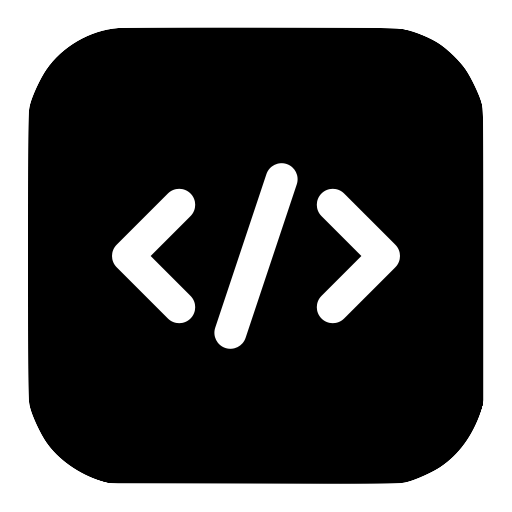
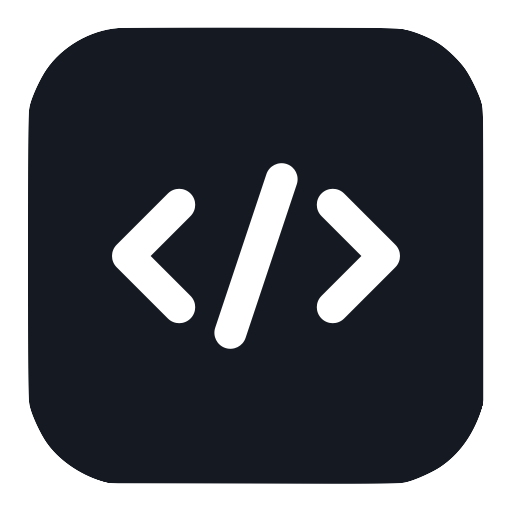
circular links

diff --git a/dist/assets/index-4edf9eb6.css b/dist/assets/index-4edf9eb6.css
@@ -1,0 +1,1 @@
+:root{--primary: #002F6C;--secondary: #006789;--tertiary: #A7C6ED;--bg: #F8F9F6;--text: #1f2937;--card-bg: #f9fafb}body{display:flex;flex-direction:column;align-items:center;justify-content:center;text-align:center;font-family:Inter,sans-serif;color:var(--text);line-height:1.6;margin:0}.site-header{width:100%;display:flex;flex-direction:column;background-color:var(--primary);color:var(--bg);position:relative;box-sizing:border-box;padding-top:1rem}.title,.subtitle{line-height:1}.nav-bar{max-width:1200px;display:flex;padding-bottom:.5rem;padding-left:3rem}.nav-links{display:flex;align-items:center;gap:.3rem}.nav-links a{color:var(--bg);text-decoration:none;font-size:.95rem;font-weight:500;transition:color .2s ease}.nav-links a:hover,.nav-links a.active{color:var(--text-main)}.nav-links a.nav-cta{padding:.5rem 1rem;border-radius:3px}.nav-links a.nav-cta:hover{background-color:#ffffff1a;border-color:#fff3}.circular-links-section{display:flex;align-items:center;justify-content:center;min-height:500px;overflow:hidden;margin:2rem 0;padding-top:7rem}.circle-track{position:relative;width:600px;height:600px;border-radius:50%;border:2px dashed var(--tertiary)}.center-text{position:absolute;top:0;right:0;bottom:0;left:0;display:flex;align-items:center;justify-content:center;color:#94a3b8;font-weight:500;letter-spacing:.1em;font-size:14px}.circle-img-link{position:absolute;transform:translate(-50%,-50%);width:32%;height:32%;border-radius:50%;transition:all .3s ease-in-out}#code-icon{width:25%;height:25%}#lab-icon{width:27%;height:27%}.circle-img-link:hover{transform:translate(-50%,-50%) scale(1.25);z-index:10}.circle-img-link img{width:100%;height:100%;object-fit:cover}.section-title{text-align:left;padding:2rem 1rem 1rem 3rem;margin:0rem}.intro-text{text-align:justify;padding-left:4rem;padding-right:4rem}.grid{display:flex;align-items:center;justify-content:center;grid-template-columns:repeat(auto-fit,minmax(300px,1fr));gap:2rem;padding-left:2rem;padding-right:2rem}.card{width:20%;background:var(--card-bg);border:1px solid #e5e7eb;border-radius:12px;padding:1.5rem;transition:transform .2s}.card:hover{transform:translateY(-5px);border-color:var(--primary)}.tag{background:#dbeafe;color:var(--primary);font-size:.75rem;padding:.2rem .6rem;border-radius:999px;margin-right:.5rem}

diff --git a/dist/index.html b/dist/index.html
@@ -4,8 +4,8 @@
     <meta charset="UTF-8">
     <title>Name | AI & Biomedical Portfolio</title>
     
-  <script type="module" crossorigin src="/assets/index-33767931.js"></script>
-  <link rel="stylesheet" href="/assets/index-1408d891.css">
+  <script type="module" crossorigin src="/assets/index-1c2c10ba.js"></script>
+  <link rel="stylesheet" href="/assets/index-4edf9eb6.css">
 </head>
 <body>
     <header class="site-header">

diff --git a/src/style.css b/src/style.css
@@ -6,6 +6,7 @@
     --tertiary: #A7C6ED;
     --bg: #F8F9F6;
     --text: #1f2937;
+    --point: #151a22;
     --card-bg: #f9fafb;
 }
 
